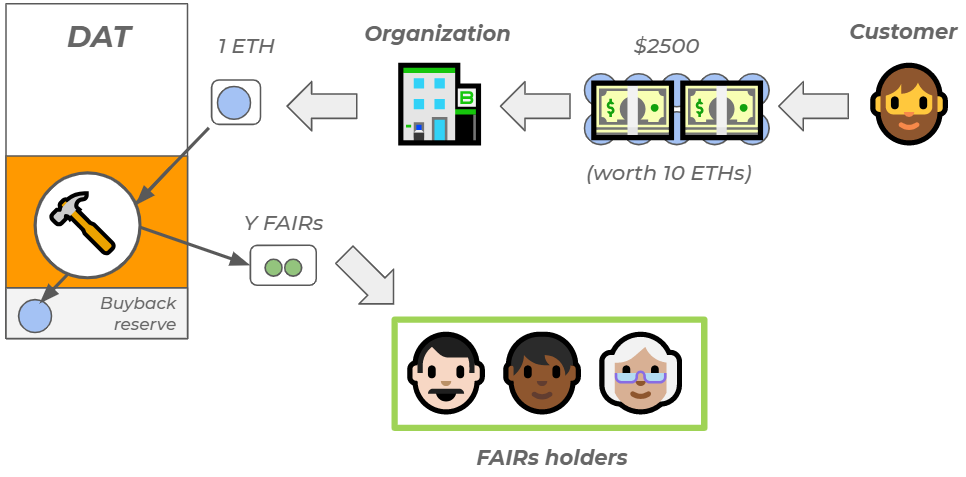
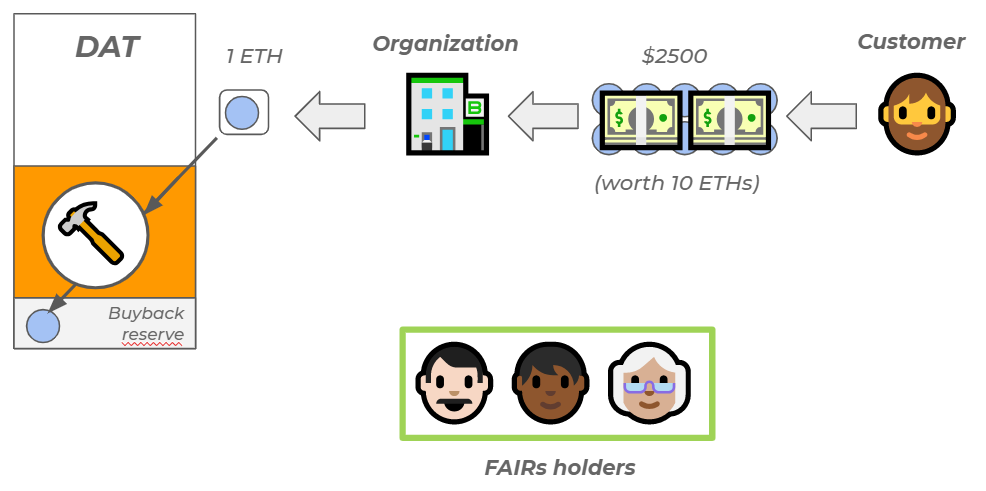
* fix TOC * add DAI reference * Removing dividend function * Updating illustrations * add burn() function * added sell/buy calculus with their proofs

diff --git a/README.md b/README.md
@@ -250,7 +250,7 @@ A _Continuous Organization_ is an organization that issues fully digital securit
 
 **Important note about the currency used to interact with a DAT**
 
-In the following examples, we are using ETH (the currency of the Ethereum blockchain) as the currency to interact with the DAT. ETH is the native currency for an Ethereum-based DAT. It does not mean that end users (individuals and organizations) will necessarily have to manipulate ETH to interact with DATs. One can envision a future where services are created to allow end users to use fiat currency like USD or EUR to interact with a DAT, greatly simplifying the user experience. 
+In the following examples, we are using ETH (the currency of the Ethereum blockchain) as the currency to interact with the DAT. ETH is the native currency for an Ethereum-based DAT. It does not mean that end users (individuals and organizations) will necessarily have to manipulate ETH to interact with DATs. First, ETH can be replaced by a stablecoin (like [DAI](https://makerdao.com/dai/)) to remove the volatility associated with ETH. Second, one can also envision a future where services are created to allow end users to use fiat currency like USD or EUR to interact with a DAT, greatly simplifying the user experience. 
 
 <h4 id="bondingcurve">Understanding the token bonding curve model</h4>
 
@@ -277,9 +277,7 @@ It is important to note that in a bonding curve model, the x-axis represents the
 
 So, in our example: `C=10*10/2=50`.
 
-
 <h4 id="dat">The Decentralized Autonomous Trust</h4>
-
 
 In the case of _Continuous Organizations_, we introduce the _cash-flow-based bonding curve_: a bonding curve that uses 2 different functions, one for the buy curve and another for the sell curve: **B** (for **b**uy) and **S** (for **s**ell) with <img src="https://latex.codecogs.com/gif.latex?B(x)>S(x)&space;\forall&space;x&space;\in&space;[0;\infty[" />.
 
@@ -295,7 +293,7 @@ The function _S_ defines the price at which _FAIRs_ are bought back by the _DAT_
 
 <h5 id="buy">📈 Investments - Buy</h5>
 
-The first (in "time", not in "proportion") source of cash-flows for a Continuous Organization are investors who want to invest in the _Continuous Organization_. Whenever an investor sends funds to the _DAT_, a fraction of the funds sent is being held in the "buyback" reserve by the _DAT_ and the rest of the funds are being transferred to the organization's wallet. We'll call **I** (for **i**nvest) the percentage of the funds being held with <img src="https://latex.codecogs.com/gif.latex?I=\frac{s_{0}}{b}" />. Please note that I is a function of s<sub>0</sub>, the slope of S at t=0 so I is constant.
+The first (in "time", not in "proportion") source of cash-flows for a Continuous Organization are investors who want to invest in the _Continuous Organization_. They do that by calling the `buy()` function of the _DAT_. Whenever an "external" investor (as opposed to the organization itself) sends funds to the _DAT_, a fraction of the funds sent is being held in the "buyback" reserve by the _DAT_ and the rest of the funds are being transferred to the organization's wallet. We'll call **I** (for **i**nvest) the percentage of the funds being held in the buyback reserve. **I** is a constant.
 
 <img src="images/Introducing-Continuous3.png" width="580" title="Investments - Buy" alt="Investments - Buy" />
 
@@ -309,9 +307,67 @@ The investors buying tokens are doing so to invest money in the underlying organ
 
 _Example_: Let's say that an investor sends 10 ETH to the _DAT_, if I=10% then the _DAT_ will transfer 9 ETH to the organization's wallet and will keep 1 ETH in its "buyback" reserve.
 
+The rules described above do not apply if the investor is the beneficiary organization, that is, if the organization is technically _investing in itself_. In that case, I is always equal to 100%. It means that whenever an organization is investing in its _DAT_, 100% of the amount invested by the organization to buy _FAIRs_ goes to the buy-back reserve. For more information, see the <a href="#fairpurchase"><i>FAIRs purchase by the beneficiary organization</i></a> section below.
+
+<h6>Calculus</h6>
+
+When an investor buys _FAIRs_ for a cost `c`, he receives `x` _FAIRs_, with `x` being equal to:
+
+<img src="https://latex.codecogs.com/gif.latex?x=\sqrt{\frac{2c}{b}+a^2}-a" title="Number of FAIRs acquired for a cost c" /> (see proof in Annex)
+
+with `c` the amount used to buy _FAIRs_, `b` the sell slope and `a` the number of _FAIRs_ already in circulation before the transaction.
+
+<h5 id="fairpurchase">🏢 FAIRs purchase by the beneficiary organization</h5>
+
+At any time, the beneficiary organization can decide to buy _FAIRs_. To do that, the beneficiary organization calls the `buy()` function like any other investor, however, unlike external investors, the funds sent by the beneficiary organization to purchase _FAIRs_ are 100% funneled to the buyback reserve (i.e the contribution ratio `I` is equal to 100% when funds come from the beneficiary organization).
+
+This guarantees a total alignment of interests between all investors. Indeed, if the beneficiary organization was able to buy _FAIRs_ with the same investment ratio I than external investors, it would concretely mean that the beneficiary organization is able to buy _FAIRs_ for a fraction of the price compared to external investors (because the organization receives by definition `(1-I)%` of the amount invested). This difference could easily be abused by dishonest organizations and managers.
+
+Purchasing _FAIRs_ is also the way for the organization to reward _FAIRs_ holders. Indeed, when the beneficiary organization buys _FAIRs_, not only does it increase the buy-back reserve, it also increases the slope of the selling curve (see detailed explanation below).
+
+<img src="images/CO-token-buyback.PNG" width="380" title="FAIRs purchase flow" alt="FAIRs purchase flow" />
+
+_Value flow when the beneficiary organization purchases FAIRs_
+
+<img src="images/CO-token-buyback-curve.png" width="350" title="FAIRs purchase impact" alt="FAIRs purchase impact" />
+
+_Impact on the Bonding Curve when the beneficiary organization purchases FAIRs_
+
+The difference between an investment by an external investor and a _FAIRs_ purchase by the beneficiary organization is their respective _contribution ratio_ to the _DAT_'s reserve:
+
+1.  **investment by external investor**: an amount M contributes `I*M` to the _DAT_'s reserve while minting the value equivalent of M, thus a contribution ratio of `(I*M)/M=I` and by construction I<<100%
+2.  **FAIRs purchase by beneficiary organization**: an amount M contributes `M` to the _DAT_'s reserve while minting the value equivalent of `M`, thus a contribution ratio of `M/M=100%`
+
+After each transaction, _s_ can be recalculated from the amount in reserve R<sub>t</sub>:
+
+<img src="https://latex.codecogs.com/gif.latex?R_{t}=\int_{0}^{x}S_{t}(x)dx=\int_{0}^{x}s_{t}xdx=\frac{s_{t}x^{2}}{2}" />
+
+so 
+
+<img src="https://latex.codecogs.com/gif.latex?s_{t}=\frac{2R_{t}}{x^{2}}=\frac{2R}{\frac{2d}{b}+a^{2}}" /> &nbsp;&nbsp;_(see proof in Annex)_ 
+
+_Example_: Say I=10%, s<sub>0</sub>=0.1 and b=1. Assume an investor buys the first 10 tokens for 50 ETH, so the _DAT_ now has 50x10%=5 ETH in reserve. Then, the beneficiary organization buys _FAIRs_ for 1 ETH of value. This 1 ETH is used to mint 0.0995 tokens (we'll leave this as an exercise for the reader. Hint: the equation to solve is <img src="https://latex.codecogs.com/gif.latex?x^{2}+20x-2=0" />), which gives s<sub>1</sub>=0.1176. So, the operation increased value for _FAIRs_ holders as s<sub>1</sub>>s<sub>0</sub>, that is, they can now sell their _FAIRs_ at a higher value than before.
+
+<h5 id="burn">🔥 Burning _FAIRs_</h5>
+
+A _FAIRs_ holder can at anytime take the decision to burn its _FAIRs_ by calling the `burn()` function.
+
+Burning _FAIRs_ destroys them so that no one will ever be able to use them. If it makes little sense for an investor to do so with its _FAIRs_, but it does make sense for the beneficiary organization to be able to burn its _FAIRs_ (1) if it has no use of them or (2) if it wants to increase the value of all other _FAIRs_.
+
+Indeed, when a _FAIR_ is burnt, its lowest possible value is equally redistributed to all _FAIRs_ holders by modifying the sell function such as:
+
+<img src="https://latex.codecogs.com/gif.latex?S(x)=sx+z"/>&nbsp;where&nbsp;<img src="https://latex.codecogs.com/gif.latex?z=\frac{sx'^2}{2(x-x')}"/> (see proof in _Annex_)
+
+which gives <img src="https://latex.codecogs.com/gif.latex?S(x)=sx+\frac{sx'^2}{2(x-x')}"/>
+
+where `s` is the sell slope, `x` the number of _FAIRs_ in circulation and `x'` the number of _FAIRs_ burnt in total.
+
+<img src="images/CO-burn-impact.png" width="350" title="FAIRs burn impact" alt="FAIRs burn impact" />
+
+
 <h5 id="sell">💰 Investments - Sell</h5>
 
-Investors can at any time decide to sell their FAIRs to get ETH back. When the DAT receives _FAIRs_, it burns the received _FAIRs_ and sends ETH back to the selling investor according to a function **S** (for **s**ell). _S_ has a slope _s_ that increases discretely over time, every time the _DAT_ receives a payment. The ETH sent back to the investor is taken from the _DAT_ "buyback" reserve and does **not** affect the organization's cash reserve.
+Investors can at any time decide to sell their FAIRs to get ETH back. They do that by calling the `sell()` function of the _DAT_. When the _DAT_ receives _FAIRs_, it burns the received _FAIRs_ and sends ETH back to the selling investor according to a function **S** (for **s**ell). _S_ has a slope _s_ that increases discretely over time, every time the _DAT_ receives a payment. The ETH sent back to the investor is taken from the _DAT_ "buyback" reserve and does **not** affect the organization's cash reserve.
 
 
 <img src="images/Introducing-Continuous5.png" width="580" title="Investments - Sell" alt="Investments - Sell" />
@@ -322,67 +378,53 @@ _Value flow when a FAIR sale occurs_
 
 _Impact on the Bonding Curve Contract of the DAT when an investor sells its tokens_
 
-<h5 id="dividends">💵 Dividends</h5>
+<h6>calculus</h6>
 
+When an investor sells `x` _FAIRs_, assuming no _FAIRs_ were previously burnt, he receives an amount `c`, with `c` being equal to:
 
-The second source of cash-flow for the _DAT_ are dividends. At any point in time, the organization can decide to pay dividends to its _FAIRs_ holders. To do so, the organization sends ETH to the _dividend_ function of the _DAT_. Two things happen:
+<img src="https://latex.codecogs.com/gif.latex?c=axs-\frac{x^2s}{2}" title="amount perceived when selling x FAIRs (without burnt FAIRs)" /> (see proof in Annex)
 
-1.  **The _DAT_ buyback reserve is increased**. All the funds sent are used to mint new _FAIRs_ with a _contribution ratio_ of 100%, meaning that 100% of the funds sent are being saved in the _DAT_ buyback reserve, thus creating value for _FAIRs_ holders by increasing the slope of the selling curve (see detailed explanation below).
-2.  **_FAIRs_ holders receive dividends in _FAIRs_**. The newly minted FAIRs are distributed as dividends to the current _FAIRs_ holders as a pro-rata of their holdings and taking into account any "_dividend bonus_" they might have (see below for the definition of "_dividend bonus_").
+with `s` the sell slope and `a` the number of _FAIRs_ in circulation before the transaction.
 
-<img src="images/Introducing-Continuous7.png" width="380" title="Dividends" alt="Dividends" />
+In the case _FAIRs_ were burnt, the calculus becomes:
 
-_Value flow when a dividend payment occurs_
+<img src="https://latex.codecogs.com/gif.latex?c=axs-\frac{x^2s}{2}+\frac{sxx'^2}{2(x-x')}" title="amount perceived when selling x FAIRs" />
 
-The biggest difference between an investment cash-flow and a dividend cash-flow is their respective _contribution ratio_ to the _DAT_'s reserve:
-
-1.  **investment**: an amount M contributes `I*M` to the _DAT_'s reserve while minting the value equivalent of M, thus a contribution ratio of `(I*M)/M=I` and by construction I<<100%
-2.  **dividend**: an amount M contributes `M` to the _DAT_'s reserve while minting the value equivalent of `M`, thus a contribution ratio of `M/M=100%`
-
-So we have <img src="https://latex.codecogs.com/gif.latex?I\leq&space;s_{t}\leq1" /> (remember from above that s<sub>t</sub> is the slope of the sell function at time _t_). As we saw that s<sub>0</sub>=I this means that everytime a dividend is received by the _DAT_, _s_ increases in value. After each transaction, _s_ can be recalculated from the amount in reserve R<sub>t</sub>:
-
-<img src="https://latex.codecogs.com/gif.latex?R_{t}=\int_{0}^{x}S_{t}(x)dx=\int_{0}^{x}s_{t}xdx=\frac{s_{t}x^{2}}{2}" />
-
-so 
-
-<img src="https://latex.codecogs.com/gif.latex?s_{t}=\frac{2R_{t}}{x^{2}}=\frac{2R}{\frac{2d}{b}+a^{2}}" />
-
- _(proof available in Annex)_ 
-
-_Example_: Say I=10%, D=10% and b=1. Assume an investor buys the first 10 tokens for 50 ETH, so the _DAT_ now has 50*10%=5 ETH in reserve. Then, the _DAT_ receives a payment of 10 ETH from revenues. From this payment, 10*10%=1 ETH is used to mint 0.0995 tokens (we'll leave this as an exercise for the reader. Hint: the equation to solve is <img src="https://latex.codecogs.com/gif.latex?x^{2}+20x-2=0" />), which gives s<sub>1</sub>=0.1176, which is indeed superior to I.
+Where `x'` is the number of burnt _FAIRs_.
 
 <h5 id="pay">💲 Pay</h5>
 
-For some _Continuous Organizations_ (_COs_ with no underlying legal entity, for example), it can make sense to receive their customers' payments (i.e. the _CO_'s revenues) through the _DAT_. It is important to note that it is not mandatory for the organization's revenues to funnel through the _DAT_ as the organization can also decide to _only_ reward _FAIRs_ holders through dividends.
+A _Continuous Organization_ has the *option* to perceive its customer's payments directly through the _DAT_ by calling its `pay()` function.
 
-For organizations that already have a running business, they will very likely prefer to _first_ receive the payment from their customer in fiat (as they usually do, without changing their selling process) and will _then_ transfer a fraction D of their perceived revenues to the DAT in the form of dividends, as illustrated here:
-
-<img src="images/Introducing-Continuous8.png" width="400" title="Revenues for real organizations" alt="Revenues for real organizations" />
-
-This way, the _DAT_ is made completely invisible for the customer (no change in UX) and the organization does **not** have to modify any of its highly optimized selling processes.
-
-Whenever the _DAT_ receives a payment **P**, a fraction of the payment received is being used to _mint new FAIRs_. We'll call **D** (for **d**ividends) the percentage of the revenues being used to mint new tokens, **d** the corresponding fraction of the revenues (d=P*D) and **t** the number of new tokens minted. The entire amount d used to mint _FAIRs_ is saved in the _DAT_'s "buyback" reserve and the **t** _FAIRs_ minted are distributed to the current token holders according to their current holdings as well as their dividend bonus (see above). This distribution is like a dividend distribution but paid in _FAIRs_ rather than ETH.
+Whenever the _DAT_ receives a payment **P**, a fraction of the payment received is being funneled into the buyback reserve. We'll call **D** (for **D**istribution) the percentage of the revenues being funneled into the buyback reserve and **d** the corresponding fraction of the revenues (d=P*D). The entire amount `d` is saved in the _DAT_'s "buyback" reserve, thus increasing the value of _FAIRs_.
 
 <img src="images/Introducing-Continuous9.png" width="580" title="Revenues" alt="Revenues" />
 
 _Value flow when the CO relies on the DAT to receive its payments_
 
-_Example_: Suppose D=5%, if the _Continuous Organization_ receives a payment of 100 ETH, 5 ETH will be used to mint _FAIRs_. The _FAIRs_ are then distributed to existing token holders who can decide to either keep or sell them.
+_Example_: Suppose D=5%, if the _Continuous Organization_ receives a payment of 100 ETH, 5 ETH will be funneled to the buyback reserve, increased the collective value of _FAIRs_.
+
+_Note_: For some _Continuous Organizations_ (_COs_ with no underlying legal entity, for example), it can make sense to receive their customers' payments (i.e. the _CO_'s revenues) directly through the _DAT_. It is important to note that it is not mandatory for the organization's revenues to funnel through the _DAT_ as the organization can also decide to _only_ reward _FAIRs_ holders through _FAIRs_ purchase.
+
+For organizations that already have a running business, they will very likely prefer to _first_ receive a payment from their customer in fiat (as they usually do, without changing their selling process) and will _then_ purchase _FAIRs_ to transfer a fraction of their perceived revenues to the _DAT_ to increase the _FAIRs_ value, as illustrated here:
+
+<img src="images/Introducing-Continuous8.png" width="400" title="Revenues for real organizations" alt="Revenues for real organizations" />
+
+This way, the _DAT_ is made completely invisible for the customer (no change in UX) and the organization does **not** have to modify any of its highly optimized selling processes.
 
 <h5 id="pre-mint">🍯Pre-minted FAIR pool</h5>
 
 When the _DAT_ is being created (and **only** then because once created the _DAT_ becomes immutable), the organization can decide to "pre-mint" for itself and for free a number **PM** of _FAIRs_. That means that, instead of having the supply of _FAIRs_ of the _DAT_ start from zero, it would start from PM.
 
-Pre-minting FAIRs can often make a lot of sense to the organization, be it to reward its founders, to pay its early employees, to reward its early users, etc… However, it is very important to realize that pre-creating FAIRs comes with a potentially high cost, as these "free" pre-minted _FAIRs_ represent a selling pressure on the _DAT_ as they are _FAIR_s that got allocated "for free", without any contribution to the _DAT_ buyback reserve.
+Pre-minting FAIRs can often make a lot of sense to the organization, be it to reward its founders, to pay its early employees, to reward its early users, etc… However, it is very important to realize that pre-creating FAIRs comes with a potentially high cost, as these "free" pre-minted _FAIRs_ represent a selling pressure on the _DAT_ as they are _FAIRs_ that got allocated "for free", without any contribution to the _DAT_ buyback reserve.
 
-Technically speaking, it means that the greater the number of FAIR tokens that are pre-minted, the lower the sell curve will be (i.e., the _s_ slope defined previously). So concretely, if an organization decides to pre-mint a large number of FAIRs when setting up the DAT, it may want to be very careful not to pre-mint too many of them because it significantly increases the risk and financial reward of investors.
+Technically speaking, it means that the greater the number of FAIR tokens that are pre-minted, the lower the sell curve will be (i.e., the _s_ slope defined previously). So concretely, if an organization decides to pre-mint a large number of FAIRs when setting up the DAT, it may want to be very careful not to pre-mint too many of them because it could have a significant negative impact on the risk and financial reward of investors.
 
 
 <img src="images/Introducing-Continuous10.png" width="300" title="Pre-minted FAIR pool" alt="Pre-minted FAIR pool" />
 
 _Impact of pre-minted tokens, everything else being equal_
 
-Even though it is not mandatory, it is highly recommended to have a vesting schedule for the _FAIR_s that are pre-minted in order to commit their beneficiaries over the long term and help them resist the temptation to sell at the first opportunity.
 
 <h5 id="summary">📄 Summary</h5>
 
@@ -636,11 +678,23 @@ To continue the conversation and contribute, you are more than welcome to join o
 
 <h2 id="annexes">Annex</h2>
 
+<h3 id="sell-slope-proof">Sell slope calculus</h3>
 
-How to recalculate s from R after each new transaction:
-
+After each _FAIRs_ purchase from the beneficiary organization and each call of the `pay()` function, the sell slope `s` needs to be recalculated. Here is how to recalculate `s` from the size of the buyback reserve `R` after each new transaction:
 
 <img src="images/proof.jpg" width="480" title="Proof" alt="Proof" />
+
+<h3 id="buy-sell-proof">Buy/sell calculus</h3>
+
+When buying _FAIRs_, you need to perform a calculus to know how much _FAIRs_ you will get for the amount you are willing to invest. Likewise, when selling _FAIRs_, you need a calculus to know how much you will get back for the amount of _FAIRs_ you are willing to sell. Here are the calculus with their proofs:
+
+<img src="images/calculus-sell-buy.png" width="480" title="Proof 2" alt="Proof 2" />
+
+<h3 id="burn-factor-proof">Burn factor calculus</h3>
+
+When burning _FAIRs_, the lowest possible value of the burnt _FAIRs_ is redistributed to all _FAIRs_ holders. As such, it impacts the amount the get back when selling _FAIRs_ to the _DAT_.  Here are the calculus of the burn factor:
+
+<img src="images/burn-proof.jpg" width="480" title="Proof burn factor" alt="Proof burn factor" />
 
 ## Notes
 
